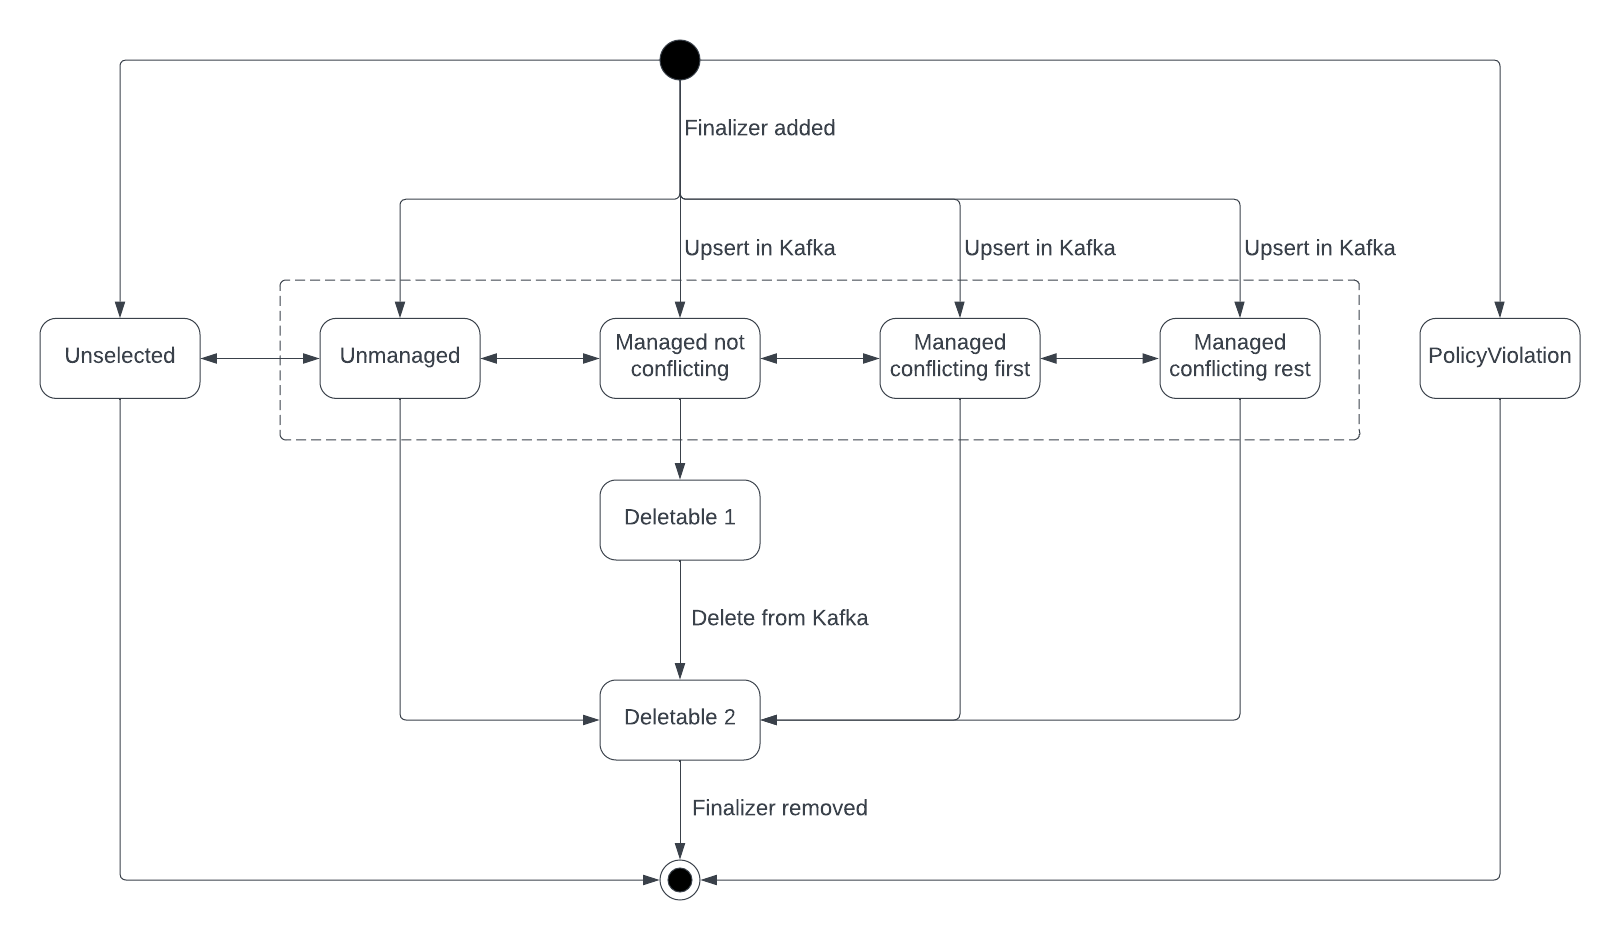
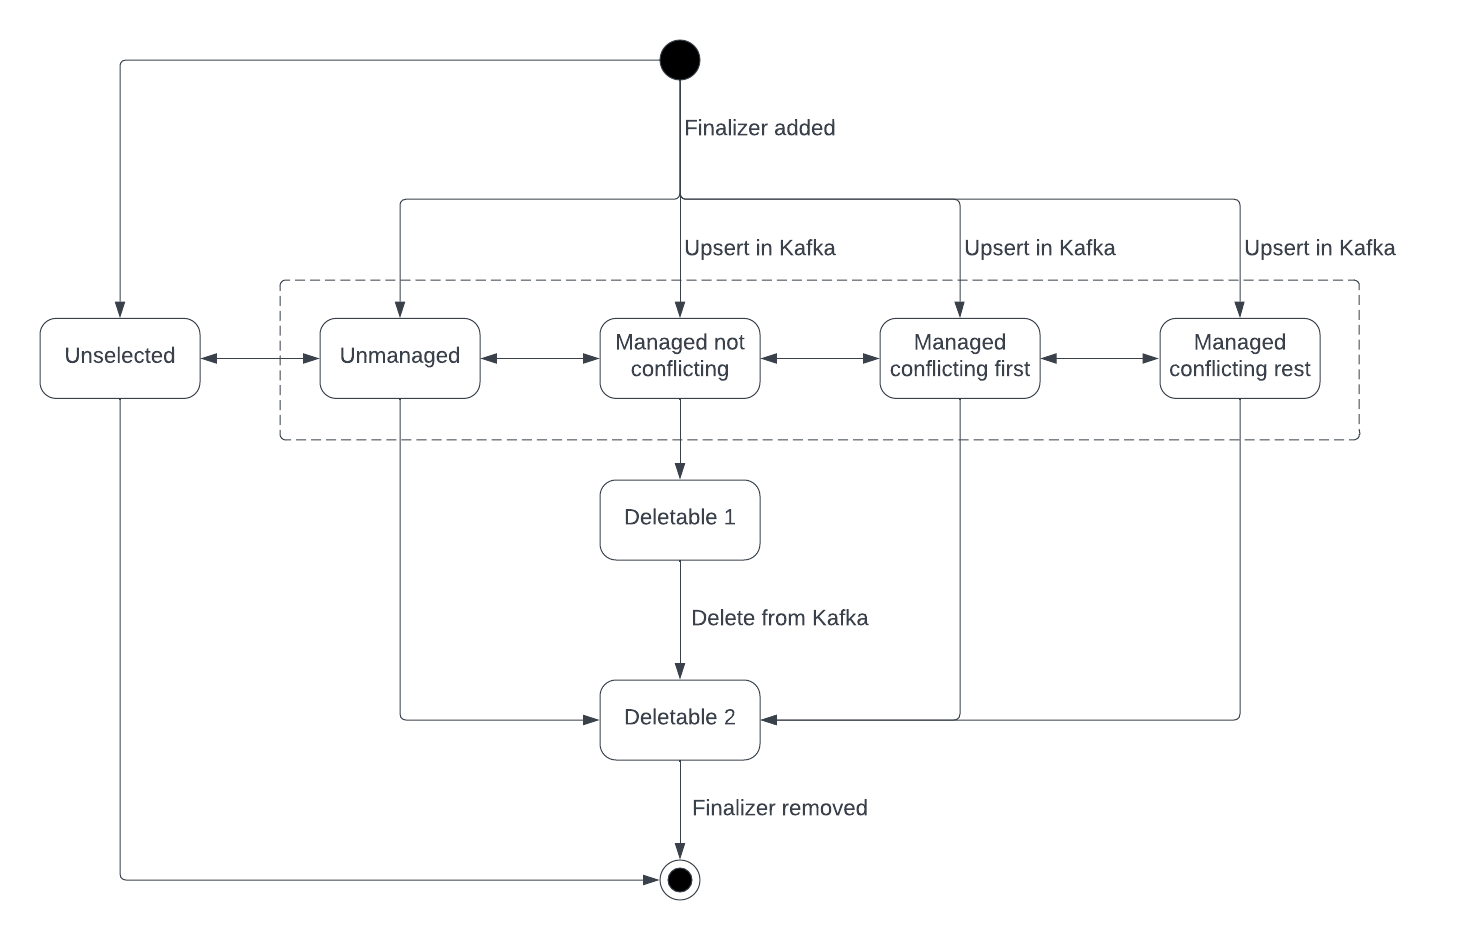
Drop mult-namespace from the proposal ☹

diff --git a/050-unidirectional-topic-operator.md b/050-unidirectional-topic-operator.md
@@ -62,7 +62,7 @@ For these reasons we are proposing the UTO.
 ### Goals
 
 * A unidirectional topic operator which is KRaft compatible
-* Support for multiple namespaces
+<!-- * Support for multiple namespaces -->
 
 ### Non-goals
 
@@ -428,6 +428,7 @@ Note that `spec.managed=False` also means that a `KafkaTopic` can exist without 
 
 ---
 
+<!--
 
 ### Multi-namespace support
 
@@ -484,6 +485,7 @@ In order to avoid collisions where two or more `KafkaTopics` are trying to manag
 > We can't assume that either team involved in the conflict know about the existence of the other.
 > Therefore a different `reason` seems appropriate.
 
+-->
 
 ### Operational considerations
 
@@ -586,11 +588,13 @@ Although not shown to avoid making the diagram overly complicated, the states wi
 * There may, or may not, be another `KafkaTopic` for the same topic in Kafka in state "Managed conflicting first".
 * Changes in this state, including deletions, are not propagated to Kafka.
 
+<!-- 
 ### PolicyViolation
 
 * This is the where a `KafkaTopic` is created in a namespace which is not allowed by the policy. 
 * The finalizer is never added, and is not removed. 
 * KafkaTopics in this state cannot transition to other state unless the policy is changed, in which case the effect is as-if they'd been created from scratch.
+-->
 
 ## Affected/not affected projects
 
@@ -611,8 +615,7 @@ Let's consider each of the public APIs of the BTO in turn and describe the compa
 
 | Env var						| Status                        |
 |-------------------------------------------------------|-------------------------------|
-| `STRIMZI_NAMESPACE`					| Becomes optional, see note 1  |
-| `STRIMZI_POLICY_YAML`					| Added, optional, see note 1	|
+| `STRIMZI_NAMESPACE`					|				|
 | `STRIMZI_RESOURCE_LABELS`				| Unchanged			|
 | `STRIMZI_KAFKA_BOOTSTRAP_SERVERS`			| Unchanged			|
 | `STRIMZI_CLIENT_ID`					| Unchanged			|
@@ -631,8 +634,8 @@ Let's consider each of the public APIs of the BTO in turn and describe the compa
 | `STRIMZI_ZOOKEEPER_CONNECT`				| Dropped			|
 | `STRIMZI_ZOOKEEPER_SESSION_TIMEOUT_S`			| Dropped			|
 | `TC_ZK_CONNECTION_TIMEOUT_MS`				| Dropped			|
-| `STRIMZI_REASSIGN_THROTTLE`				| Dropped, see note 2		|
-| `STRIMZI_REASSIGN_VERIFY_INTERVAL_MS`			| Dropped, see note 2		|
+| `STRIMZI_REASSIGN_THROTTLE`				| Dropped, see note 1		|
+| `STRIMZI_REASSIGN_VERIFY_INTERVAL_MS`			| Dropped, see note 1		|
 | `STRIMZI_TOPIC_METADATA_MAX_ATTEMPTS`			| Dropped			|
 | `STRIMZI_TOPICS_PATH`					| Dropped			|
 | `STRIMZI_STORE_TOPIC`					| Dropped			|
@@ -644,10 +647,7 @@ Let's consider each of the public APIs of the BTO in turn and describe the compa
 
 Notes:
 
-1. `STRIMZI_NAMESPACE` is retained for backwards compatibility and configures the operator with a policy allowing all topics in the given namespace.
-   `STRIMZI_POLICY_JSON` configures a policy as JSON string.
-   Exactly one of `STRIMZI_NAMESPACE` or `STRIMZI_POLICY_YAML` must be provided.
-2. Although these are present in the BTO source code they have never actually been used.
+1. Although these are present in the BTO source code they have never actually been used.
 
 It is also anticiapted that during development we may want to add support for additional environment variables to configure non-functional aspects of the UTO (e.g. performance-related options like numbers of threads used for processing, etc).
 
@@ -678,9 +678,6 @@ spec:
     image: 
     watchedNamespace:
     reconciliationIntervalSeconds:
-
-    # New options
-    policy: # optional namespace policy
 ```
 
 ### Changes to the KafkaTopic custom resource API
@@ -699,7 +696,7 @@ The semantics of the `KafkaTopic` custom resource API will also change:
 2. The absence of fields will not imply that they take their default values, only that the value is not specified in this CR.
 
 > The reason for 2 is to leave the door open to a further refinement of the UTO in the future.
-> Consider the case where a Kafka cluster is centrally managed by an infrastruture team, and the multi-namespace support is being used to allow application teams some control over their topics. 
+> Consider the case where a Kafka cluster is centrally managed by an infrastruture team. 
 > The infra team want to delegate control over only a subset of the possible topic configs. 
 > Configs such as `cleanup.policy` and `compression.type` can be delegated to the application teams.
 > But the infra team want to retain control over configs such as `follower.replication.throttled.replicas`, `min.cleanable.dirty.ratio` or `unclean.leader.election.enable`.
@@ -803,7 +800,8 @@ It is not intended, by itself, to define the complete post-BTO picture.
 Future work _could_ include:
 
 * Providing tooling to conveniently create `KafkaTopics` for existing topics in Kafka.
-* Adopting the config partitioning idea to allow multiple `KafkaTopics` to manage disjoint subsets of topics' configurations.
+* Providing tooling to conveniently remove finalizers from `KafkaTopics`
+<!-- * Adopting the config partitioning idea to allow multiple `KafkaTopics` to manage disjoint subsets of topics' configurations. -->
 
 ## Rejected alternatives
 
